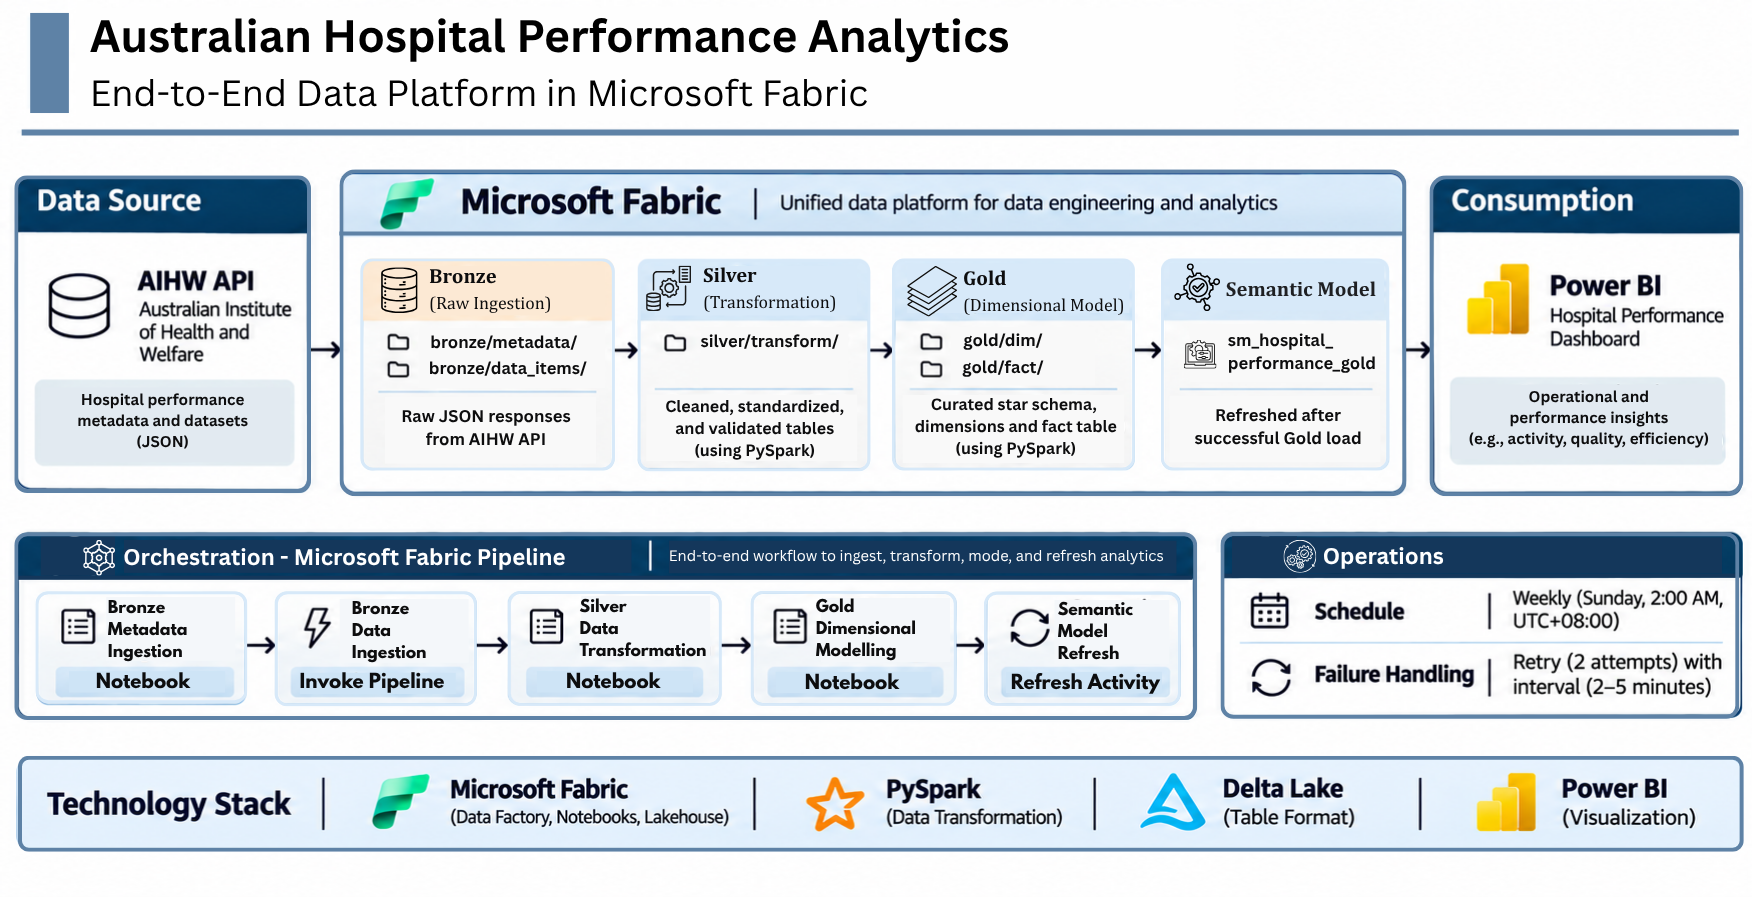
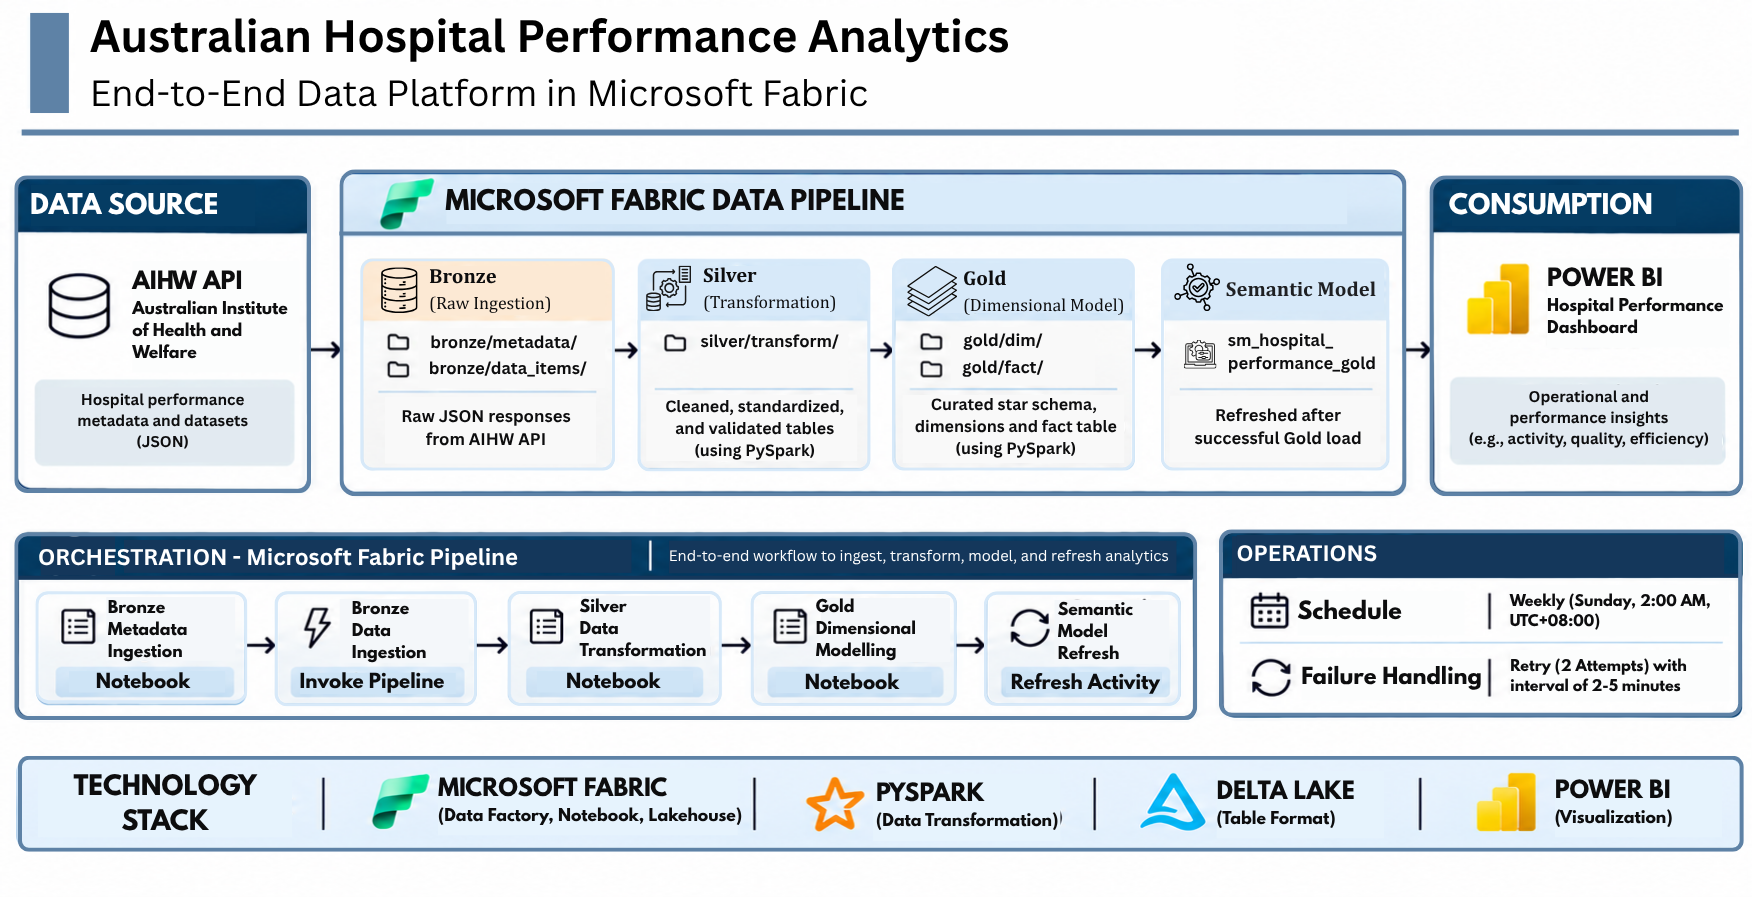
Update AIHW project architecture

diff --git a/README.md b/README.md
@@ -4,7 +4,6 @@ An end-to-end data engineering and analytics project built on Microsoft Fabric, 
 
 The workflow uses Microsoft Fabric Data Factory pipelines for ingestion and end-to-end orchestration, Fabric Lakehouse and Delta Lake for data storage, PySpark for data processing, and Power BI with DAX for reporting. A scheduled master pipeline coordinates the ingestion, transformation, Gold modelling, and semantic model refresh.
 
-Developed through AI-assisted pair programming, with Claude (Anthropic) and ChatGPT (OpenAI) supporting implementation, troubleshooting, and technical reviews. The project concept, architecture, technology selections, data modelling approach, and final design decisions were my own. I used AI tools to accelerate development, explore solutions, and review code, while taking responsibility for understanding, testing, and validating each component of the implementation.
 
 ## Architecture
 
@@ -124,7 +123,7 @@ The AIHW API is publicly accessible, but the Fabric workspace, Lakehouse, pipeli
 
 This is an independent portfolio project built as a practical way to develop my experience with data engineering and analytics engineering workflows. I worked through the source API, ingestion design, transformations, dimensional model, semantic layer, and reporting, testing the pipeline in Fabric as I went.
 
-AI tools were used as development support, not as a substitute for reviewing the implementation. I made the project and modelling decisions and checked the outputs against the source data and the intended reporting use.
+AI-assisted tools, including ChatGPT (OpenAI) and Claude (Anthropsc), were used as supplementary resources during development for troubleshooting, exploring implementation approaches, and reviewing code and documentation. The project concept, architecture, technology selections, data modelling approach, implementation decisions, and final outputs were developed and evaluated by me. AI-generated suggestions were reviewed and adapted where appropriate.
 
 ---
 
